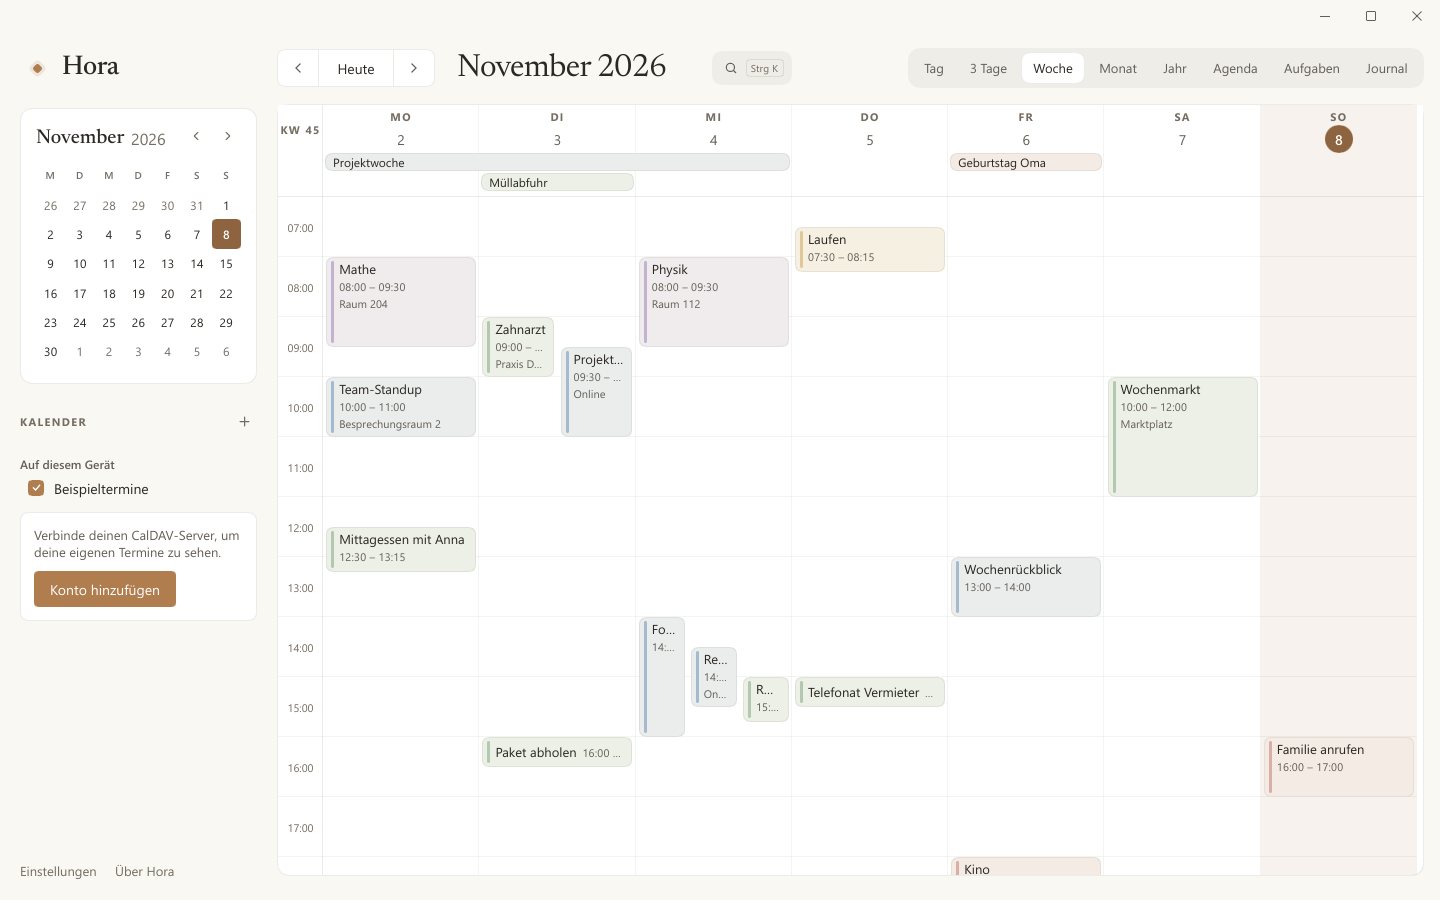
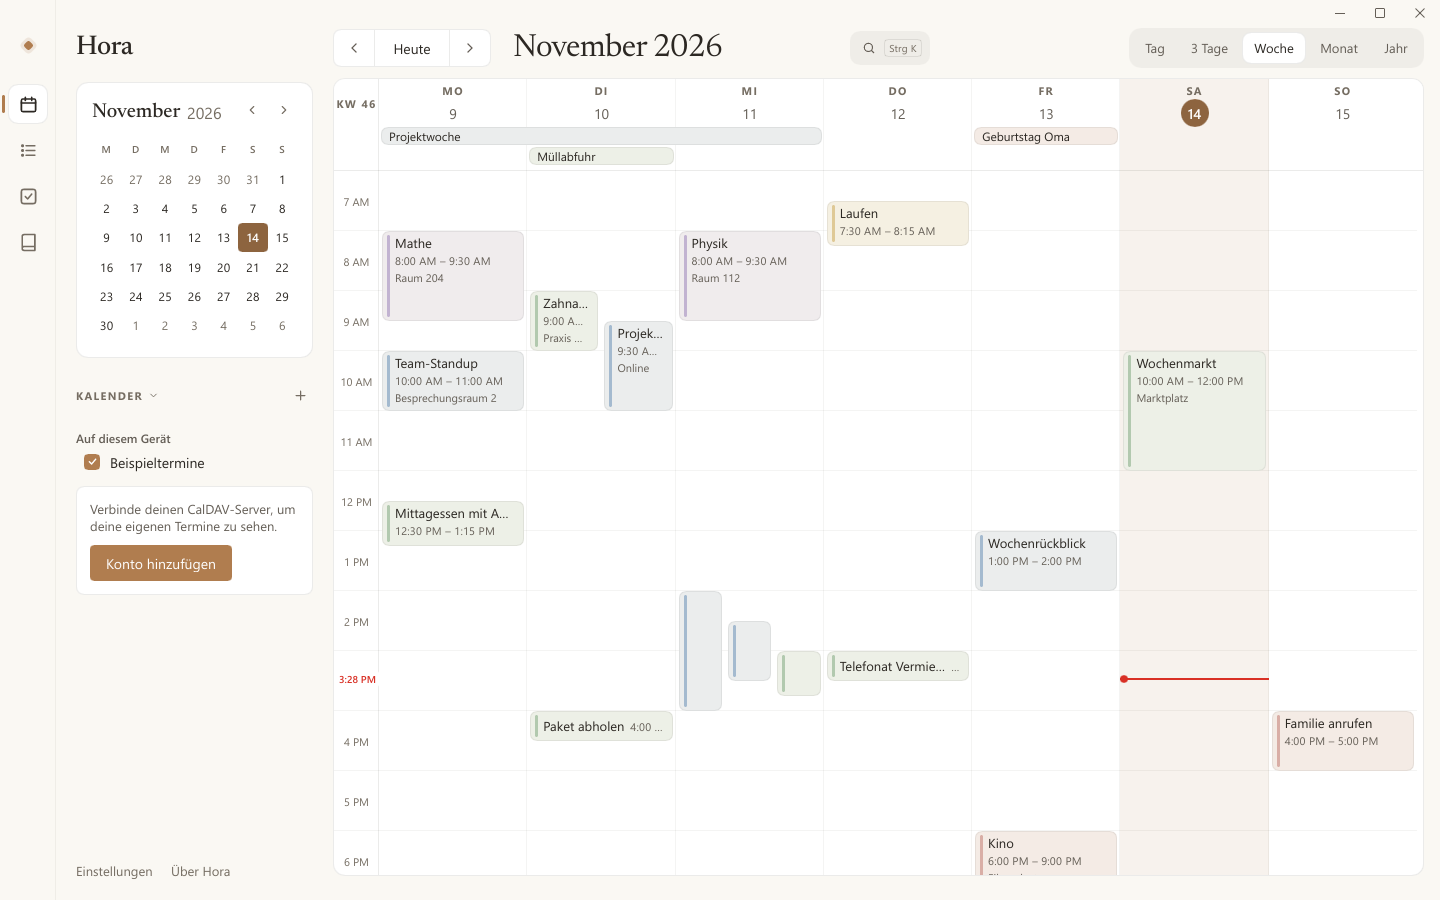
Release 1.4.0
Calendars that stay only on this PC, app time as its own area, a date
picker for date fields, a bar on the left for calendar, agenda, tasks,
journal and app time, an appearance setting, and a tidier header. README
screenshots updated.

diff --git a/CHANGELOG.md b/CHANGELOG.md
@@ -1,6 +1,6 @@
 # Changelog
 
-## [Unreleased]
+## [1.4.0] – 2026-11-14
 
 ### Calendars on this PC
 
